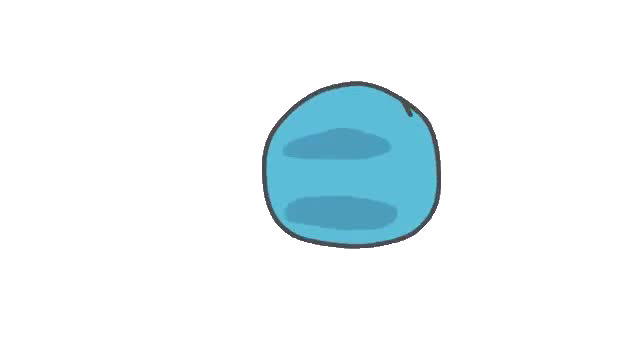
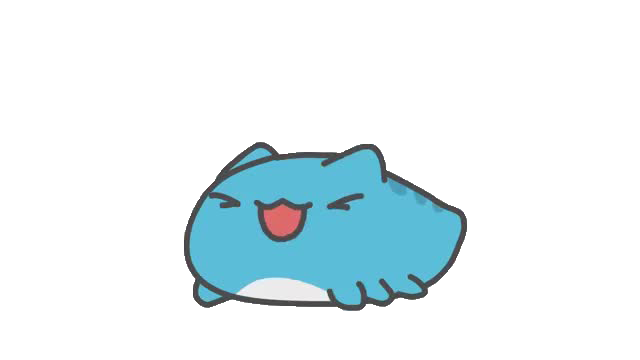
add hellow animation

Changed region(s): [[0.2812, 0.2139, 0.75, 0.8861]]

diff --git a/src/Client/MainApplet.java b/src/Client/MainApplet.java
@@ -130,7 +130,7 @@ public class MainApplet extends PApplet {
 	int foodindex = 0;
 	
 	public MainApplet(Socket socket) {
-		state = 5;
+		state = 2;
 		countrys = new ArrayList<Country>();
 		breads = new ArrayList<Bread>();
 		meats = new ArrayList<Meat>();
@@ -242,6 +242,23 @@ public class MainApplet extends PApplet {
 					break;
 				}
 				else isOver = false;
+			}
+			if (animationIndex==0){
+
+				loadAnimation("hellow_animation", 640, 320, 900, 500);
+			}
+
+			Animation a;
+
+			a = animations.get(animationIndex);
+			a.display();
+			animationIndex++;
+			delay(50);
+			
+			if (animationIndex==animation.getSize()){
+				//
+				animationIndex = animation.getSize()-10;
+				// end and calculate the score
 			}
 		}
 		else if(state == 3) {
@@ -893,6 +910,7 @@ public class MainApplet extends PApplet {
 
 			if (animationIndex==animation.getSize()){
 				loadFood();
+				animationIndex=0;
 				state = 7;
 			}
 		}
@@ -1100,6 +1118,7 @@ public class MainApplet extends PApplet {
 					loadSnack();
 					loadDrink();
 					loaddata();
+					animationIndex=0;
 					state = 4;
 				}
 			}
